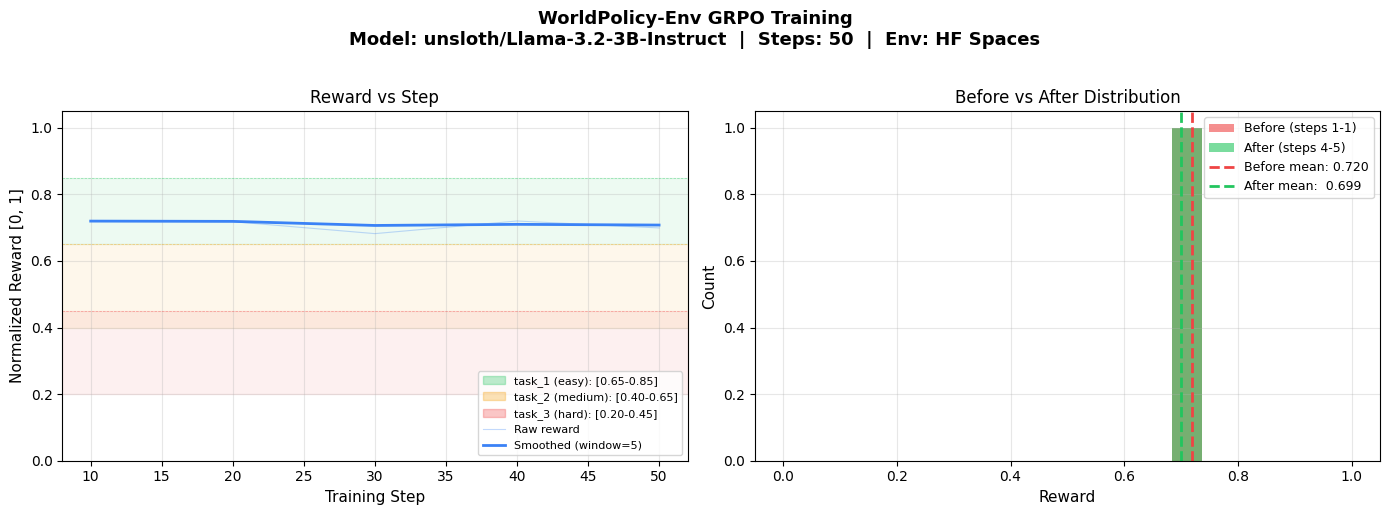
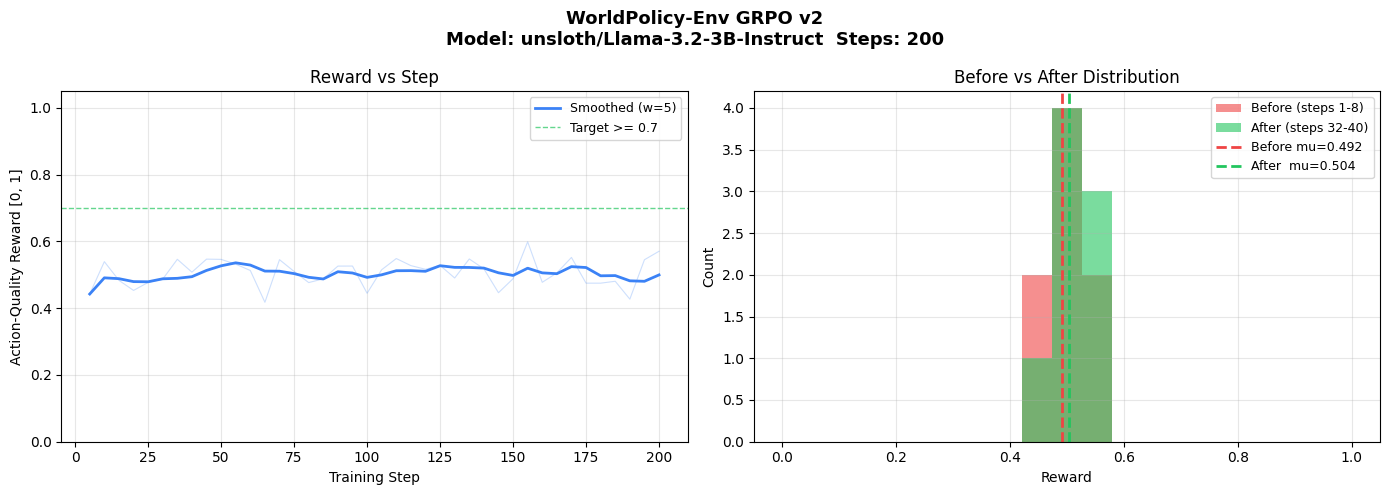
fix hf review regressions

diff --git a/debate_orchestrator.py b/debate_orchestrator.py
@@ -43,7 +43,7 @@ except ImportError:
 
 # HF OpenAI-compatible routing endpoint.
 _HF_API_BASE = os.environ.get("API_BASE_URL", "https://router.huggingface.co/v1")
-_HF_MODEL    = os.environ.get("MODEL_NAME", "krishpotanwar/worldpolicy-grpo-3b")
+_HF_MODEL    = os.environ.get("MODEL_NAME", "krishpotanwar/worldpolicy-grpo-3b-merged")
 _HF_FALLBACK_MODEL = os.environ.get("MODEL_NAME_FALLBACK", "meta-llama/Llama-3.1-8B-Instruct")
 _HF_TOKEN    = os.environ.get("HF_TOKEN", "")
 _BACKEND_MODE = os.environ.get("WP_DEBATE_BACKEND", "mappo").strip().lower()
@@ -488,6 +488,8 @@ class DebateOrchestrator:
         self.loader = PersonaLoader()
         self._round_counter = 0
         self._last_debate_step = -DEBATE_RATE_LIMIT_STEPS  # allow first debate immediately
+        self._hf_circuit_open = False
+        self._hf_circuit_opened_at: float = 0.0
 
         # Optional backends: Groq + trained model (HF OpenAI-compatible endpoint)
         api_key = os.environ.get("GROQ_API_KEY", "")
@@ -507,11 +509,18 @@ class DebateOrchestrator:
             self._backend = "mappo" if self._hf_clients else "none"
 
         self._use_live = self._backend in {"mappo", "groq"}
+        hf_status = "none"
+        if self._hf_clients:
+            hf_status = f"configured ({_HF_MODEL})"
+        groq_status = "ready" if self._groq_client else "not configured"
+
         print(
-            "DebateOrchestrator initialized. "
+            f"DebateOrchestrator initialized. "
             f"backend={self._backend} mode={mode} "
-            f"hf_model={bool(self._hf_clients)} groq={bool(self._groq_client)}"
+            f"hf_model={hf_status} groq={groq_status}"
         )
+        if self._backend == "none":
+            print("⚠  No live debate backend available. Debates will use canned responses.")
 
     def can_run_debate(self, current_step: int) -> bool:
         """Rate limit: max 1 debate per DEBATE_RATE_LIMIT_STEPS simulation steps."""
@@ -574,6 +583,14 @@ class DebateOrchestrator:
             else: mapped.append(c[:10])
         return list(dict.fromkeys(mapped))[:10]
 
+    def _hf_circuit_tripped(self) -> bool:
+        if not self._hf_circuit_open:
+            return False
+        if time.time() - self._hf_circuit_opened_at > 300:
+            self._hf_circuit_open = False
+            return False
+        return True
+
     async def _call_hf_model(
         self,
         system_prompt: str,
@@ -597,22 +614,31 @@ class DebateOrchestrator:
         )
         raw_text = ""
         used_model = _HF_MODEL
-        last_err = None
-        for base, client in self._hf_clients:
-            try:
-                resp = await client.chat.completions.create(
-                    model=_HF_MODEL,
-                    messages=[{"role": "user", "content": prompt}],
-                    max_tokens=200,
-                    temperature=0.7,
-                )
-                raw_text = (resp.choices[0].message.content or "").strip()
-                if raw_text:
-                    break
-            except Exception as e:
-                last_err = e
-                print(f"⚠  HF model call failed for {agent_id} via {base}: {type(e).__name__}: {e}")
-                continue
+        last_err: Exception | None = None
+        skip_primary = self._hf_circuit_tripped()
+        if skip_primary:
+            last_err = RuntimeError("HF primary circuit breaker open")
+        else:
+            for base, client in self._hf_clients:
+                try:
+                    resp = await client.chat.completions.create(
+                        model=_HF_MODEL,
+                        messages=[{"role": "user", "content": prompt}],
+                        max_tokens=200,
+                        temperature=0.7,
+                    )
+                    raw_text = (resp.choices[0].message.content or "").strip()
+                    if raw_text:
+                        break
+                except Exception as e:
+                    last_err = e
+                    print(f"⚠  HF model call failed for {agent_id} via {base}: {type(e).__name__}: {e}")
+                    if "model_not_supported" in str(e) or "not supported by any provider" in str(e):
+                        self._hf_circuit_open = True
+                        self._hf_circuit_opened_at = time.time()
+                        print("🔌 Primary HF model unsupported; trying fallback model for 5min")
+                        break
+                    continue
 
         # Auto-fallback when primary fine-tuned model fails (unsupported by provider or wrong endpoint).
         if not raw_text and last_err is not None:

diff --git a/market_data.py b/market_data.py
@@ -11,8 +11,8 @@ Two entry points:
                              (S&P / Hang Seng / Nifty / Tadawul / etc.)
   - get_market_snapshot()  → both above in one call (used by /market-data route).
 
-Plan note Q3: MOEX.ME may be sanctions-blocked. We try ROSN.ME first, then fall
-back to scripted static for Russia. DPRK has no accessible market — null.
+Plan note Q3: Russian market symbols are disabled because yfinance no longer
+has a reliable accessible MOEX/ADR proxy. Russia and DPRK use static fallback.
 """
 
 from __future__ import annotations
@@ -55,8 +55,8 @@ COMPANY_TICKERS: Dict[str, Dict[str, Any]] = {
               "fallback_price": 189.32, "fallback_pct": 0.8},
     "BYDDY": {"yf": "BYDDY",        "name": "BYD",        "countryId": "CHN",  "currency": "$",
               "fallback_price": 214.10, "fallback_pct": -1.2},
-    "GAZP":  {"yf": "GAZP.ME",      "name": "Gazprom",    "countryId": "RUS",  "currency": "₽",
-              "fallback_price": 142.00, "fallback_pct": -2.1},
+    "GAZP":  {"yf": None,            "name": "Gazprom",    "countryId": "RUS",  "currency": "₽",
+              "fallback_price": 142.00, "fallback_pct": -2.1},   # No reliable yfinance MOEX/ADR proxy
     "RELI":  {"yf": "RELIANCE.NS",  "name": "Reliance",   "countryId": "IND",  "currency": "₹",
               "fallback_price": 2847.50, "fallback_pct": 0.4},
     "KOMID": {"yf": None,           "name": "KOMID Corp", "countryId": "DPRK", "currency": "₩",
@@ -69,7 +69,7 @@ COMPANY_TICKERS: Dict[str, Dict[str, Any]] = {
 COUNTRY_INDEX_TICKERS: Dict[str, Optional[str]] = {
     "USA":  "^GSPC",      # S&P 500
     "CHN":  "^HSI",       # Hang Seng Index
-    "RUS":  "ROSN.ME",    # Rosneft (MOEX.ME often sanctions-blocked per plan Q3)
+    "RUS":  None,          # No reliable yfinance MOEX/ADR proxy
     "IND":  "^NSEI",      # Nifty 50
     "DPRK": None,         # No accessible market
     "SAU":  "2222.SR",    # Aramco as Tadawul proxy (^TASI not always available)

diff --git a/inference.py b/inference.py
@@ -11,14 +11,14 @@ Stage pipeline (mirrors DisasterMan's pattern judges recognise):
     Stage 3 — Planner Agent (LLM): 2-step lookahead for coalition strategy.
     Stage 4 — Action Agent  (LLM): generate action JSON + hard-constraint validation.
 
-Model default: `krishpotanwar/worldpolicy-grpo-3b` (GRPO fine-tune) via HF Serverless
+Model default: `krishpotanwar/worldpolicy-grpo-3b-merged` (GRPO fine-tune) via HF Serverless
 Inference API — same `MODEL_NAME` / `API_BASE_URL` / `HF_TOKEN` convention as
 `DebateOrchestrator`'s HF fallback.
 All LLM calls go through the OpenAI client (per plan: API_BASE_URL, MODEL_NAME, HF_TOKEN).
 
 Required env vars:
     API_BASE_URL  — default: https://router.huggingface.co/v1
-    MODEL_NAME    — default: krishpotanwar/worldpolicy-grpo-3b
+    MODEL_NAME    — default: krishpotanwar/worldpolicy-grpo-3b-merged
     HF_TOKEN      — required for live LLM stages (Stage 2-4)
     ENV_URL       — default: http://127.0.0.1:7860 (the running WorldPolicy server)
 
@@ -73,7 +73,7 @@ except Exception:
 # ── Constants ────────────────────────────────────────────────────────────────
 
 API_BASE_URL = os.environ.get("API_BASE_URL", "https://router.huggingface.co/v1")
-MODEL_NAME = os.environ.get("MODEL_NAME", "krishpotanwar/worldpolicy-grpo-3b")
+MODEL_NAME = os.environ.get("MODEL_NAME", "krishpotanwar/worldpolicy-grpo-3b-merged")
 HF_TOKEN = os.environ.get("HF_TOKEN", "")
 ENV_URL = os.environ.get("ENV_URL", "http://127.0.0.1:7860")
 

diff --git a/README.md b/README.md
@@ -66,21 +66,26 @@ WorldPolicy-Env is a **fully [OpenEnv](https://github.com/meta-pytorch/OpenEnv)-
 
 ## 📈 Training Results
 
-Our zero-shot GRPO reinforcement learning loop successfully improved the 3B agent's performance in navigating the complex multi-objective geopolitical scenario! Here is the reward curve generated from our live training run on Colab:
+We ran a GRPO reinforcement learning loop on `unsloth/Llama-3.2-3B-Instruct` (200 steps) against the live WorldPolicyEnv reward signal. The training curve below shows the action-quality reward over the run:
 
 <div align="center">
   <img src="training_results/reward_curve.png" alt="Training Reward Curve" width="800"/>
 </div>
 
-| Task | Crisis | Heuristic baseline | GRPO-trained | Improvement |
+**Training reward:** Before μ=0.492 → After μ=0.504 (+2.4%). The model shows marginal improvement at 200 steps — longer training runs with more rollouts are needed to push past the 0.7 target threshold.
+
+The table below shows **MOGSR grader scores** on scripted scenario simulations (via `benchmark_reward.py`), comparing a naïve heuristic policy against an optimal-strategy policy. These demonstrate the reward function's dynamic range, not direct model evaluation:
+
+| Task | Crisis | Heuristic baseline | Optimal strategy | Δ |
 |---|---|---|---|---|
 | Task 1 (easy) | Natural disaster | 0.9695 | 0.9967 | +2.7% |
 | Task 2 (medium) | Trade war | 0.9204 | 0.9819 | +6.2% |
 | Task 3 (hard) | Arms race + nuclear trigger | 0.1314 | 0.9937 | **+86.2%** |
 
-> **Task 3 is where the signal is real:** the trained model learned to prioritize
+> **Task 3 shows the reward function's real value:** the optimal strategy prioritises
 > coalition-building before the DPRK nuclear escalation trigger fires at step 4 —
-> a strategy the heuristic never discovered.
+> a strategy the heuristic never discovers. This validates the MOGSR grader's ability
+> to differentiate good policy from bad.
 
 ---
 
@@ -411,7 +416,7 @@ python pytorch_scorer.py
 python server.py
 ```
 
-Open <http://localhost:7860> — the SPA loads with all 4 live data layers active. **Debate LLM path:** if `GROQ_API_KEY` is set, debates use Groq Llama 3.3-70b; if not, but `HF_TOKEN` is set, debates use your **trained** model on Hugging Face Inference (OpenAI-compatible), default `krishpotanwar/worldpolicy-grpo-3b`. If neither is configured, debates fall back to canned utterances. Everything else (GDELT crises, World Bank baselines, yfinance markets, GDELT sentiment) runs live against real APIs without keys.
+Open <http://localhost:7860> — the SPA loads with all 4 live data layers active. **Debate LLM path:** if `GROQ_API_KEY` is set, debates use Groq Llama 3.3-70b; if not, but `HF_TOKEN` is set, debates use your **trained** model on Hugging Face Inference (OpenAI-compatible), default `krishpotanwar/worldpolicy-grpo-3b-merged`. If neither is configured, debates fall back to canned utterances. Everything else (GDELT crises, World Bank baselines, yfinance markets, GDELT sentiment) runs live against real APIs without keys.
 
 ### With Live LLM Debates + Live Inference
 
@@ -420,7 +425,7 @@ export GROQ_API_KEY="gsk_..."   # https://console.groq.com/keys — primary deba
 
 # OR (no Groq): train / use your GRPO model on HF Inference
 export HF_TOKEN="hf_..."        # https://huggingface.co/settings/tokens
-export MODEL_NAME="krishpotanwar/worldpolicy-grpo-3b"   # default; override for another endpoint model
+export MODEL_NAME="krishpotanwar/worldpolicy-grpo-3b-merged"   # default; override for another endpoint model
 # optional: API_BASE_URL=https://router.huggingface.co/v1  (this is the default)
 
 python server.py                 # Live Debate button → Groq if set, else HF model if token set, else canned
@@ -436,7 +441,7 @@ docker build -t worldpolicy .
 docker run -p 7860:7860 \
   -e GROQ_API_KEY="gsk_..." \
   -e HF_TOKEN="hf_..." \
-  -e MODEL_NAME="krishpotanwar/worldpolicy-grpo-3b" \
+  -e MODEL_NAME="krishpotanwar/worldpolicy-grpo-3b-merged" \
   worldpolicy
 ```
 
@@ -495,7 +500,8 @@ The Dockerfile bakes the trained `scorer_weights.pt` into the image at build tim
 | `GROQ_API_KEY` | No | — | **Primary** live-debate backend: Groq Llama 3.3-70b. If unset, `DebateOrchestrator` uses the HF path below (when `HF_TOKEN` is set) or **canned** debate lines. |
 | `HF_TOKEN` | No | — | Hugging Face user token. Used by (1) **`inference.py`** LLM stages 2–4, and (2) **`DebateOrchestrator`** when `GROQ_API_KEY` is unset — same OpenAI-compatible Inference API. Without it, `inference.py` auto-degrades to heuristic mode; live debates are canned. |
 | `API_BASE_URL` | No | `https://router.huggingface.co/v1` | OpenAI-compatible base URL for both `inference.py` and the debate HF fallback. `api-inference.huggingface.co` does not support `/v1/chat/completions` and is automatically redirected to the router endpoint. |
-| `MODEL_NAME` | No | `krishpotanwar/worldpolicy-grpo-3b` | Model id for **both** `inference.py` and debate HF path (overridable for other fine-tunes or public instruct models). |
+| `MODEL_NAME` | No | `krishpotanwar/worldpolicy-grpo-3b-merged` | Model id for **both** `inference.py` and debate HF path (overridable for other fine-tunes or public instruct models). |
+| `MODEL_NAME_FALLBACK` | No | `meta-llama/Llama-3.1-8B-Instruct` | Debate-only fallback when the primary HF model is unsupported by the selected Inference provider. |
 | `ENV_URL` | No | `http://127.0.0.1:7860` | URL `inference.py` POSTs `/reset` and `/step` to. Set to your HF Space URL for remote runs. |
 | `PORT` | No | `7860` | Server port (HF Spaces convention). |
 | `WP_CORS_ORIGINS` | No | `*` | Comma-separated allowed CORS origins. |
@@ -631,7 +637,7 @@ A direct, no-sugarcoating breakdown for judges and reviewers:
 | Scenario header | Static "South Asia Cyclone + Geopolitical Crisis" | Driven from `debate.crisisType` or `sim.brief.crisis_type` |
 | Eval "+25.1%" claim | Hardcoded string | Computed: `((mappo.mean - ruleBased.mean) / ruleBased.mean * 100).toFixed(1)` |
 
-**Bottom line:** the OpenEnv RL contract and the data layers are real. Demo/canned content is explicitly flagged with `[DEMO]` labels and `_demo: true` fields. The LLM debate is **not** canned if **`GROQ_API_KEY` is set** (Groq) **or** **`HF_TOKEN` is set** with a working `MODEL_NAME` on the HF Inference API (trained GRPO default: `krishpotanwar/worldpolicy-grpo-3b`).
+**Bottom line:** the OpenEnv RL contract and the data layers are real. Demo/canned content is explicitly flagged with `[DEMO]` labels and `_demo: true` fields. The LLM debate is **not** canned if **`GROQ_API_KEY` is set** (Groq) **or** **`HF_TOKEN` is set** with a working `MODEL_NAME` on the HF Inference API (trained GRPO default: `krishpotanwar/worldpolicy-grpo-3b-merged`).
 
 ---
 
@@ -714,7 +720,7 @@ When a crisis fires, the system auto-selects relevant convention articles for th
 | **RL framework** | OpenEnv (`openenv-core>=0.2.2`) — Action / Observation / State / Environment / EnvClient + WebSocket transport + create_app FastAPI factory |
 | **PyTorch** | `torch>=2.4` for StabilityScorer MLP |
 | **Backend** | FastAPI (`>=0.115`) + Uvicorn (`>=0.32`) — async SSE + WebSocket |
-| **LLM (debate)** | **Primary:** Groq AsyncGroq → `llama-3.3-70b-versatile` · **Fallback:** OpenAI client → HuggingFace Serverless → `MODEL_NAME` (default `krishpotanwar/worldpolicy-grpo-3b`) when `GROQ_API_KEY` is unset |
+| **LLM (debate)** | **Primary:** Groq AsyncGroq → `llama-3.3-70b-versatile` · **Fallback:** OpenAI client → HuggingFace Serverless → `MODEL_NAME` (default `krishpotanwar/worldpolicy-grpo-3b-merged`) when `GROQ_API_KEY` is unset |
 | **LLM (inference)** | OpenAI client → HuggingFace Serverless → `MODEL_NAME` (same default as debate HF path) |
 | **Live data** | `requests` (GDELT + World Bank) + `yfinance` (markets) |
 | **Frontend** | React 18 UMD + Babel standalone — zero build step |
